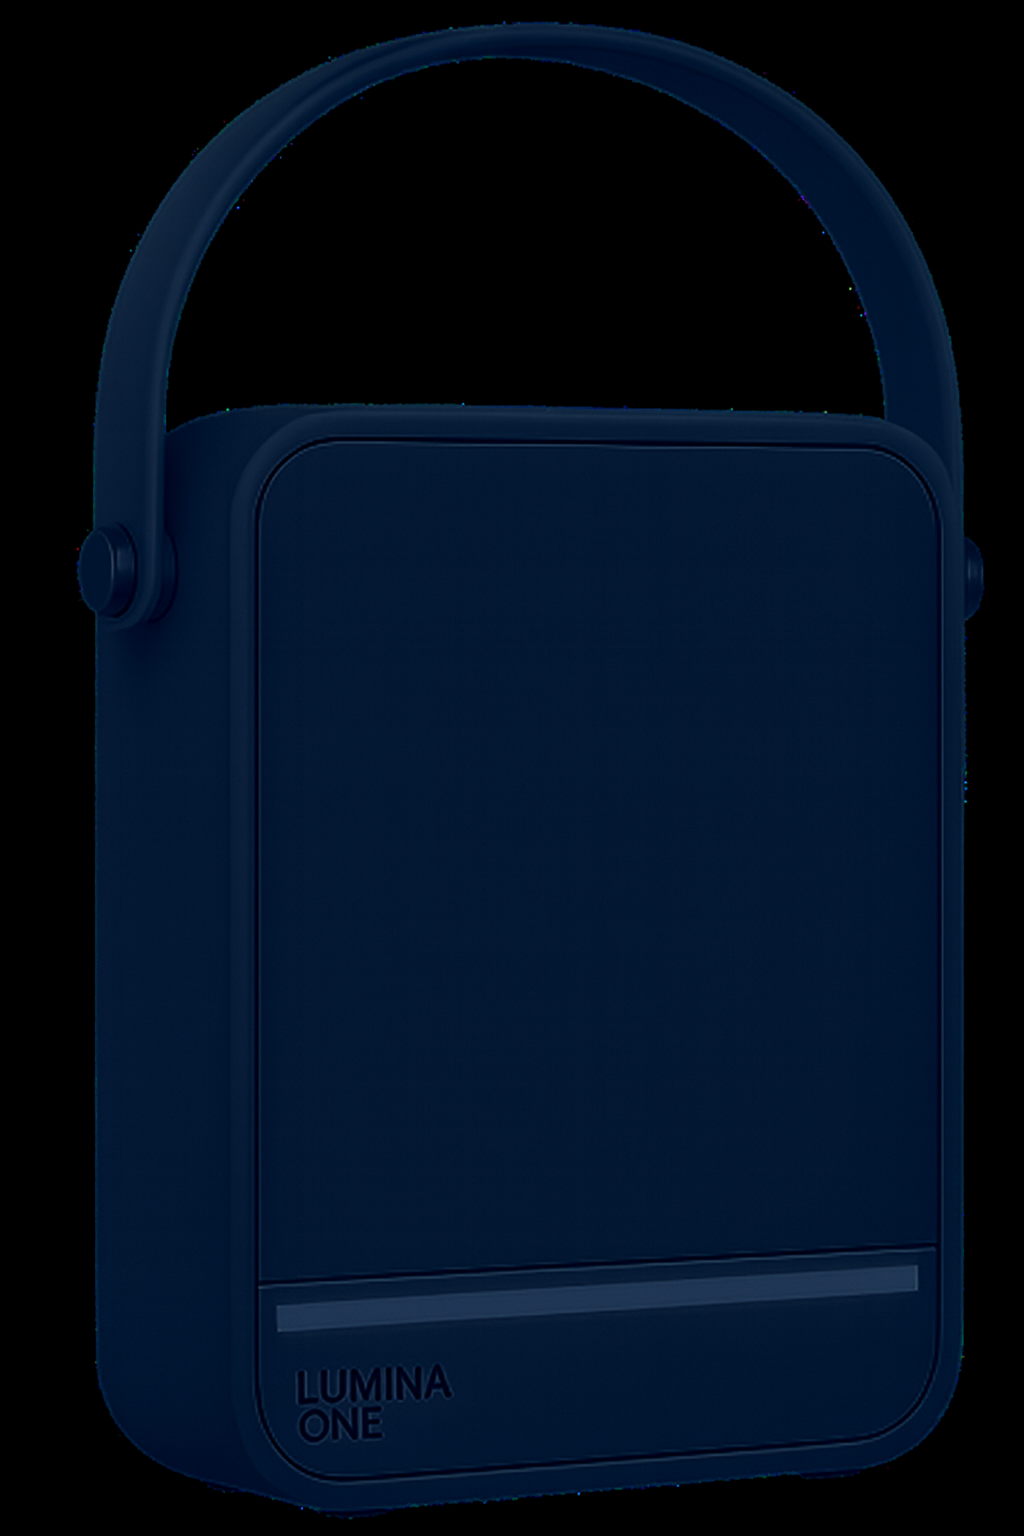
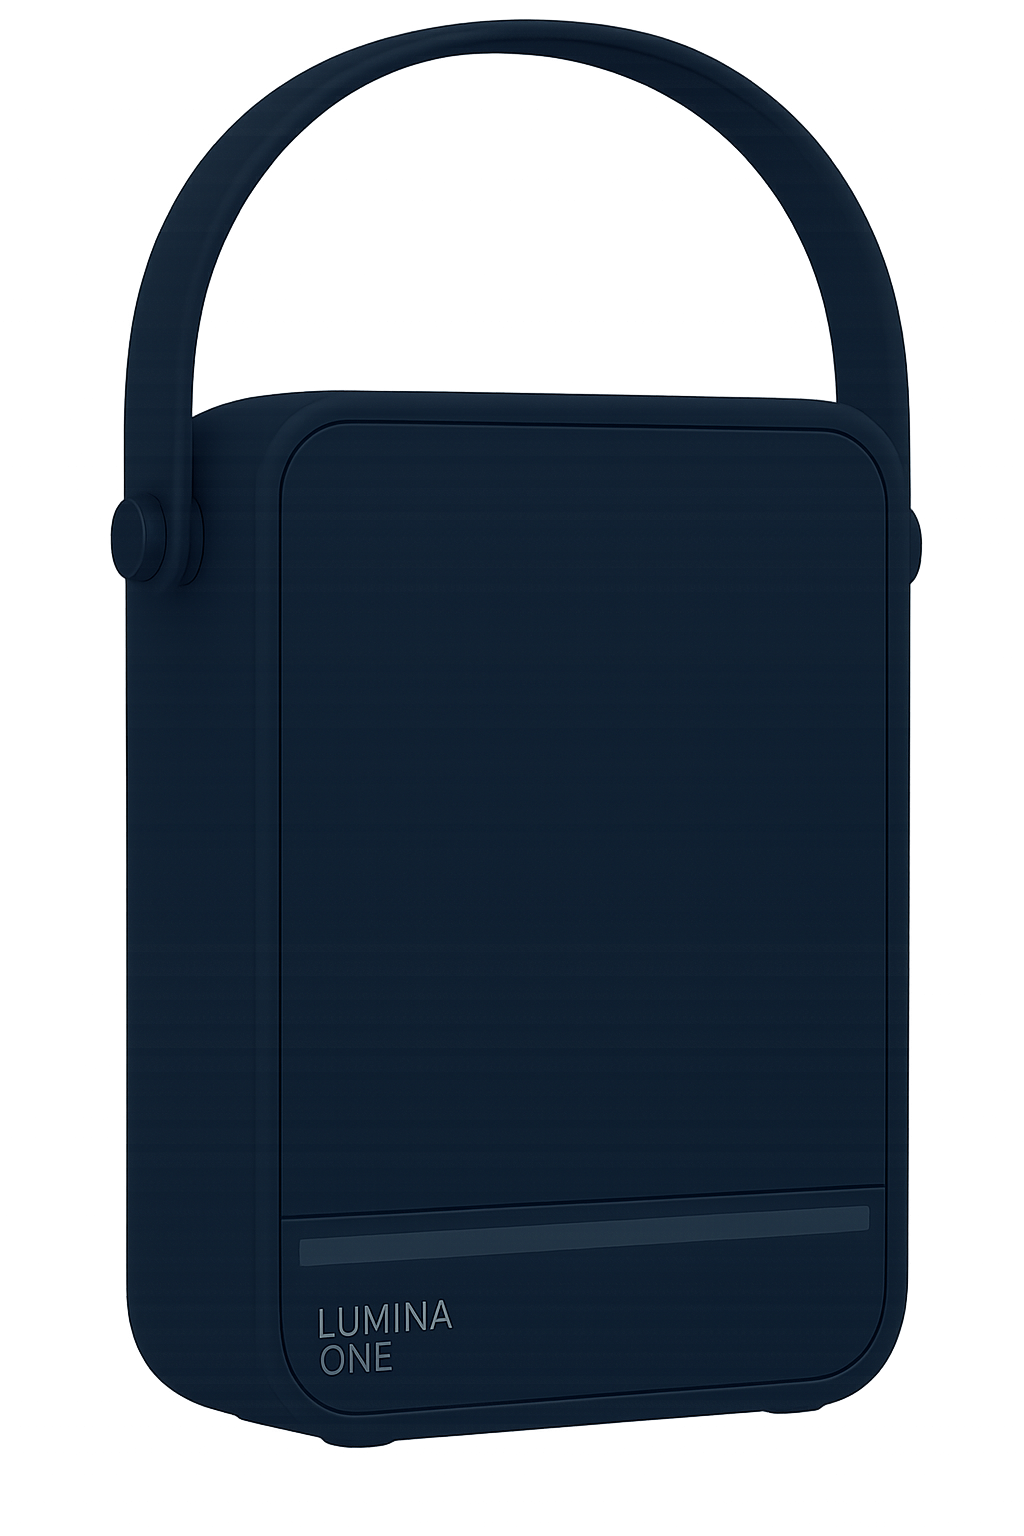
navySpeaker baggrund fiks

diff --git a/css/style.css b/css/style.css
@@ -39,7 +39,7 @@
     top: 0;
     left: 0;
     z-index: 15;
-    background-color: white
+    background: linear-gradient(#ffffff 30%, transparent);
 }
 
 .logo {
@@ -306,13 +306,15 @@
 }
 
 .farveBtn1 {
-    background-color: rgb(223, 201, 170);
-    border: 2px solid rgb(129, 114, 90);
+    background-color: rgb(241, 209, 165);
+    border: 2px solid rgb(122, 96, 69);
 }
+
 .farveBtn2 {
-    background-color: rgb(48, 48, 112);
-    border: 2px solid rgb(111, 123, 190);
+    background-color: rgb(65, 59, 97);
+    border: 2px solid rgb(113, 130, 230);
 }
+
 .farveBtn3 {
     background-color: white;
     border: 2px solid rgb(150, 150, 150);
